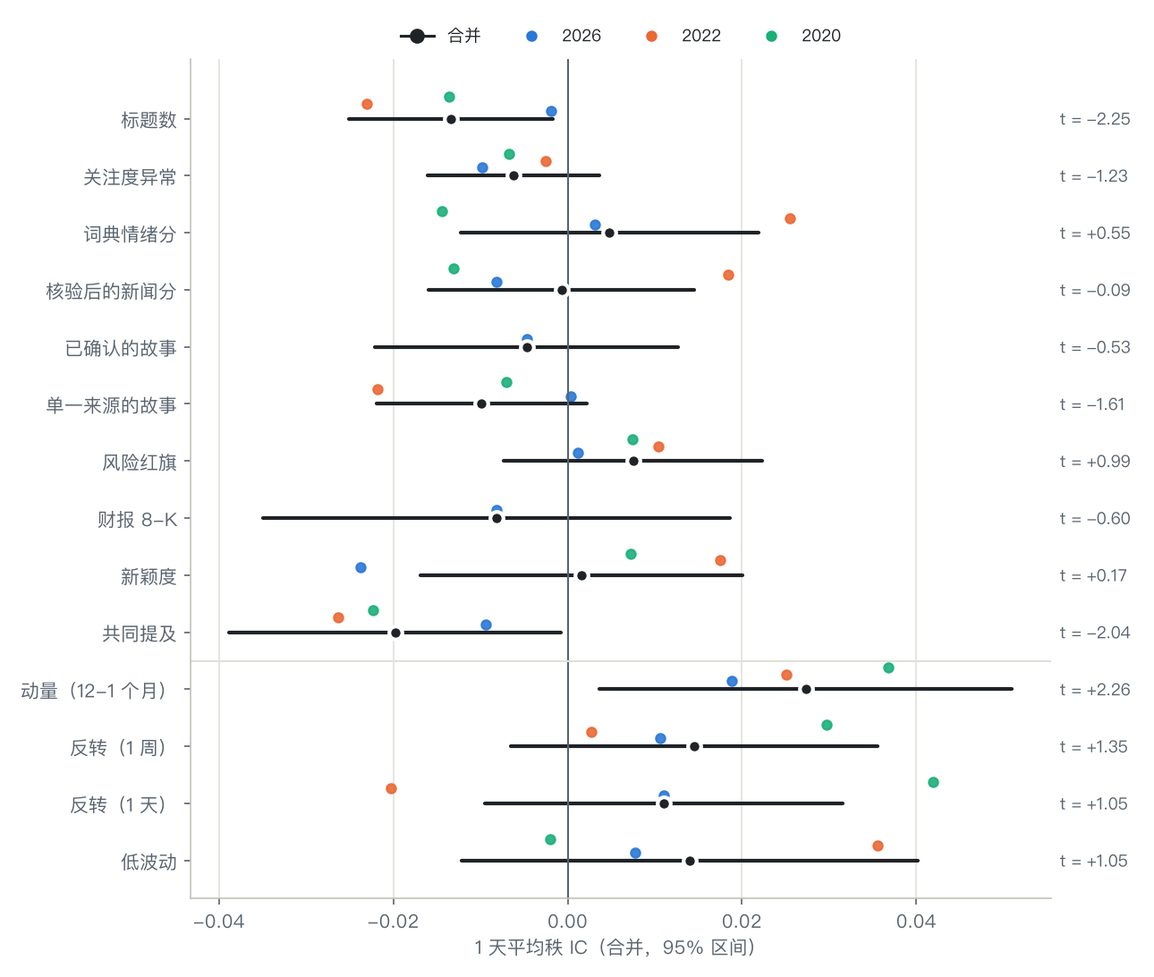
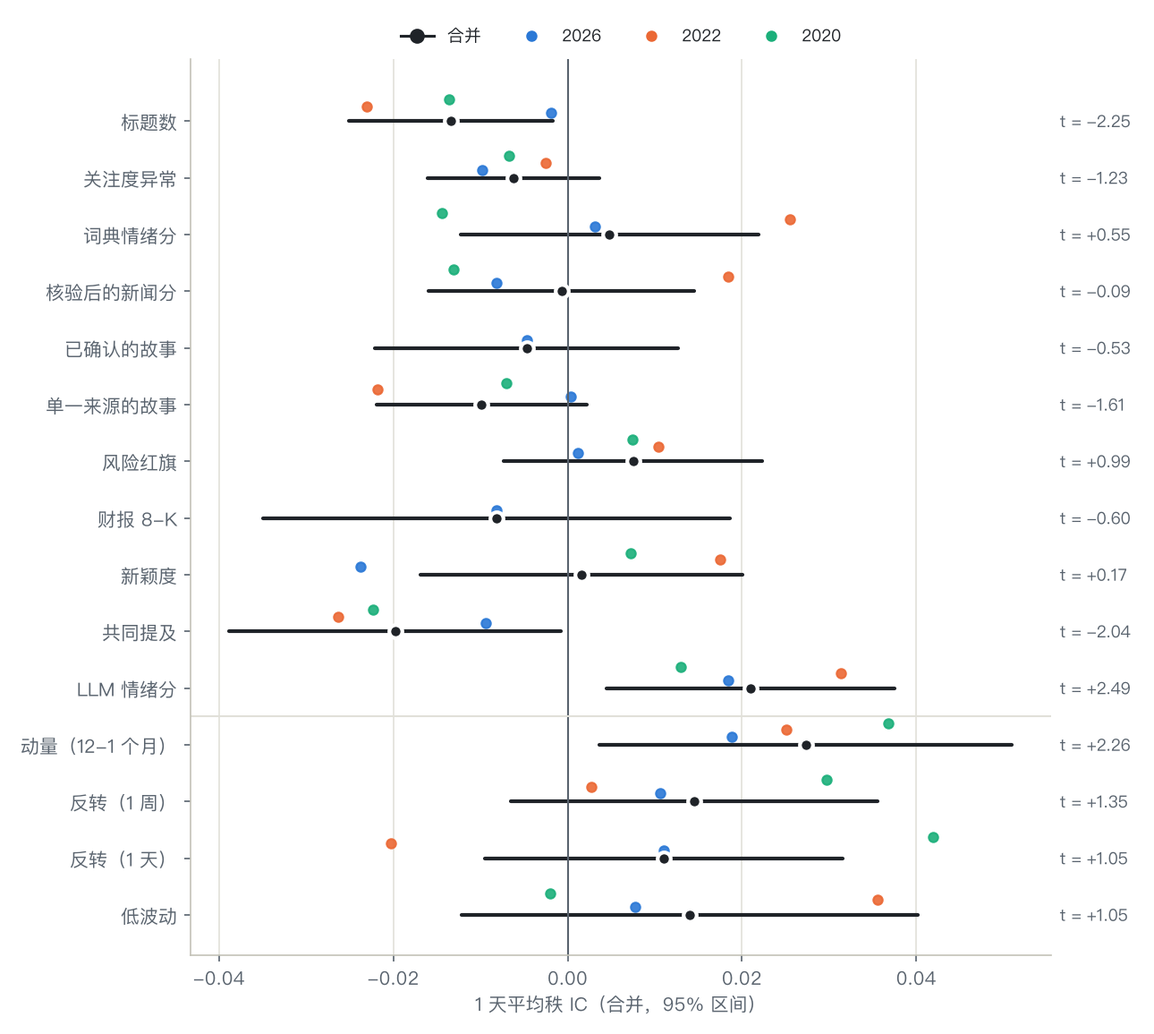
News factors: a language model's headline sentiment, tested the same way
The news-factors page tested ten factors that need no model. An eleventh now comes from a language model's reading of
each headline: gpt-5.6-luna scored all 62,722 bundled headlines of 2020, 2022 and 2026 from -1 to 1, at temperature 0
with reasoning off, through a job queue (1,569 batch requests of 40 headlines; the 9% of batches that came back with
the wrong number of scores were asked again in batches of 20).

It is the strongest news factor: a one-day rank IC of 0.021 (t = 2.5), positive in every year, four times the
lexicon's. Momentum, reversal and low volatility absorb it (Fama-MacBeth t = 1.1 at one day, 1.9 at five), so the
fixed rule calls it weak, and like the lexicon it replaces 82% of its top quintile a day, breaking even at 2.7 bp
per side. Joined by calendar date its IC doubles to 0.050 (t = 5.6). The docs and both pages carry these numbers,
and the IC, join and quintile charts now include it.

factors.json records who scored the headlines: the model, the route that served it (the API's own model id), the
prompt version, the system prompt and its SHA-256, and the coverage. A batch reply records the model it came from;
the report's lead stays lexicon sentiment, and the join chart keeps three panels about as wide as the others.

diff --git a/site/news-factors.html b/site/news-factors.html
@@ -4,7 +4,7 @@
 <meta charset="utf-8">
 <meta name="viewport" content="width=device-width, initial-scale=1">
 <title>Do news headlines predict stock returns? Ten news factors tested point in time · Risk-Aware Trading Agents</title>
-<meta name="description" content="Ten headline factors for 64 large US stocks (sentiment, attention, novelty, red flags, earnings 8-Ks and more) tested in 2020, 2022 and 2026 with news replayed at its publication time. None survives, and a calendar-date join makes headline sentiment look like a factor with t = 3.4. Free and open source.">
+<meta name="description" content="Ten headline factors for 64 large US stocks (sentiment, attention, novelty, red flags, earnings 8-Ks and more) tested in 2020, 2022 and 2026 with news replayed at its publication time. None survives, not even a language model's sentiment, and a calendar-date join makes headline sentiment look like a factor with t = 3.4. Free and open source.">
 <link rel="canonical" href="https://jackson-cmd.github.io/risk-aware-trading-agents/news-factors.html">
 <link rel="alternate" hreflang="en" href="https://jackson-cmd.github.io/risk-aware-trading-agents/news-factors.html">
 <link rel="alternate" hreflang="zh-Hans" href="https://jackson-cmd.github.io/risk-aware-trading-agents/zh/news-factors.html">
@@ -17,7 +17,7 @@
 <meta name="twitter:card" content="summary_large_image">
 <link rel="stylesheet" href="assets/guide.css">
 <script type="application/ld+json">{"@context":"https://schema.org","@type":"TechArticle","headline":"Do news headlines predict stock returns? Ten news factors tested point in time","description":"Ten headline factors for 64 large US stocks tested in 2020, 2022 and 2026 with point-in-time news, rank IC, quintiles, decay and price-factor controls, and a comparison of calendar-date and publication-time news joins.","inLanguage":"en","datePublished":"2026-11-13","dateModified":"2026-11-13","url":"https://jackson-cmd.github.io/risk-aware-trading-agents/news-factors.html","image":"https://jackson-cmd.github.io/risk-aware-trading-agents/assets/news_factors_cumulative_en.png","author":{"@type":"Organization","name":"Risk-Aware Trading Agents contributors","url":"https://github.com/jackson-cmd/risk-aware-trading-agents"},"about":["news sentiment factor","information coefficient","look-ahead bias","point-in-time data","factor investing","news backtesting"],"isPartOf":{"@type":"WebSite","name":"Risk-Aware Trading Agents","url":"https://jackson-cmd.github.io/risk-aware-trading-agents/"}}</script>
-<script type="application/ld+json">{"@context":"https://schema.org","@type":"FAQPage","mainEntity":[{"@type":"Question","name":"Does news sentiment predict stock returns?","acceptedAnswer":{"@type":"Answer","text":"Not in this test. For 64 large US stocks in 2020, 2022 and 2026, the lexicon sentiment of headlines published before the close has a one-day rank IC of 0.005 (t = 0.6) against returns from the next open, and none of ten news factors survives once momentum, reversal and low volatility are controlled for."}},{"@type":"Question","name":"How much does a calendar-date join inflate a news factor?","acceptedAnswer":{"@type":"Answer","text":"Joined by calendar date and tested close to close, the same sentiment factor has a rank IC of 0.032 (t = 3.4) and a long-short spread of 36.9 bp a day, against 0.005 and 7.4 bp when news is replayed at its publication time. Two-thirds of the gap, +0.018 of IC (t = 4.8), comes from headlines published after the close that the calendar join reads early."}},{"@type":"Question","name":"Can I run the news factor test myself?","acceptedAnswer":{"@type":"Answer","text":"Yes. Install the open-source package with pip install risk-aware-trading-agents and run riskaware research factors. The prices and headlines ship with the package, so nothing has to be downloaded, and the run writes every number, the report and the charts to a folder."}},{"@type":"Question","name":"Can a language model score the headlines?","acceptedAnswer":{"@type":"Answer","text":"Yes: riskaware research factors --llm scores each headline from -1 to 1 with a local model through Ollama for free, or with a paid API after showing the token estimate, caches every score, and adds an LLM sentiment factor to the same tests."}}]}</script>
+<script type="application/ld+json">{"@context":"https://schema.org","@type":"FAQPage","mainEntity":[{"@type":"Question","name":"Does news sentiment predict stock returns?","acceptedAnswer":{"@type":"Answer","text":"Not in this test. For 64 large US stocks in 2020, 2022 and 2026, the lexicon sentiment of headlines published before the close has a one-day rank IC of 0.005 (t = 0.6) against returns from the next open, and none of ten news factors survives once momentum, reversal and low volatility are controlled for."}},{"@type":"Question","name":"How much does a calendar-date join inflate a news factor?","acceptedAnswer":{"@type":"Answer","text":"Joined by calendar date and tested close to close, the same sentiment factor has a rank IC of 0.032 (t = 3.4) and a long-short spread of 36.9 bp a day, against 0.005 and 7.4 bp when news is replayed at its publication time. Two-thirds of the gap, +0.018 of IC (t = 4.8), comes from headlines published after the close that the calendar join reads early."}},{"@type":"Question","name":"Can I run the news factor test myself?","acceptedAnswer":{"@type":"Answer","text":"Yes. Install the open-source package with pip install risk-aware-trading-agents and run riskaware research factors. The prices and headlines ship with the package, so nothing has to be downloaded, and the run writes every number, the report and the charts to a folder."}},{"@type":"Question","name":"Can a language model score the headlines?","acceptedAnswer":{"@type":"Answer","text":"Yes: riskaware research factors --llm scores each headline from -1 to 1 with a local or paid model, or through any batch API, caches every score, and adds an LLM sentiment factor to the same tests. Scored by gpt-5.6-luna it is the strongest news factor here, a one-day rank IC of 0.021 (t = 2.5) that is positive in all three years, but momentum, reversal and low volatility absorb it."}}]}</script>
 </head>
 <body>
 <header><div class="wrap">
@@ -32,7 +32,7 @@
 <main class="wrap">
 <p class="crumbs"><a href="./">Home</a> › Guides</p>
 <h1>Do news headlines predict stock returns? Ten news factors, tested point in time</h1>
-<p class="lead">We turned the headlines that ship with Risk-Aware Trading Agents into ten daily news factors for 64 large US stocks, using only what was published before each close, and tested them against returns from the next open in 2020, 2022 and 2026. None of them survives. Joined to prices by calendar date instead, the way many news backtests do it, headline sentiment looks like a real factor.</p>
+<p class="lead">We turned the headlines that ship with Risk-Aware Trading Agents into ten daily news factors for 64 large US stocks, using only what was published before each close, and tested them against returns from the next open in 2020, 2022 and 2026. None of them survives, not even sentiment scored by a language model. Joined to prices by calendar date instead, the way many news backtests do it, headline sentiment looks like a real factor.</p>
 <div class="cta">
   <a class="btn primary" href="https://github.com/jackson-cmd/risk-aware-trading-agents">Get it on GitHub</a>
   <a class="btn" href="news-backtesting.html">Backtesting with news</a>
@@ -41,6 +41,7 @@
 
 <div class="box">
   <p><b>No news factor survives.</b> Eight of ten are noise. Two (the number of headlines, and how many other companies they name) have a small negative one-day IC that momentum, reversal and low volatility absorb.</p>
+  <p><b>A language model reads headlines better, not well enough.</b> Sentiment scored by gpt-5.6-luna has a one-day IC of 0.021 (t = 2.5), positive in all three years, but the price factors absorb it and it changes too fast to trade.</p>
   <p><b>A calendar-date join makes one up.</b> Lexicon sentiment joined by calendar date and tested close to close: rank IC 0.032 (t = 3.4), long-short 36.9 bp a day. Joined by publication time and traded from the next open: 0.005 (t = 0.6) and 7.4 bp.</p>
   <p><b>Most of the gap is read early.</b> Two-thirds of it, +0.018 of IC (t = 4.8), is news published after the close, and it shows up in each of the three years.</p>
 </div>
@@ -56,15 +57,16 @@
 </table></div>
 <p>Only the shortcut reads the future. Holding the return window fixed (close to close), the calendar join adds <b>+0.018 to the IC (t = 4.8)</b>, two-thirds of the gap to the honest replay. The calendar join with next-open returns does not leak, because the evening's news is out before the next open, and it is no better than the honest replay: the shortcut's edge is the overnight move after news that came out after the close.</p>
 <img class="chart" src="assets/news_factors_cumulative_en.png" alt="Cumulative daily rank IC of headline sentiment in 2026, 2022 and 2020: the calendar-date join climbs while the publication-time join stays near zero in 2026 and falls in 2020" loading="lazy">
-<p>The gap is not one lucky year. The leak is +0.0157 (t = 1.8) in 2026, +0.0209 (t = 3.7) in 2022 and +0.0165 (t = 3.1) in 2020, and the package's verified news score shows the same pattern: 0.017 (t = 2.2) joined by date, -0.001 (t = -0.1) joined by time.</p>
-<img class="chart" src="assets/news_factors_alignment_en.png" alt="Mean one-day rank IC of lexicon sentiment and the verified news score under both joins, pooled and by year" loading="lazy">
+<p>The gap is not one lucky year. The leak is +0.0157 (t = 1.8) in 2026, +0.0209 (t = 3.7) in 2022 and +0.0165 (t = 3.1) in 2020, and the package's verified news score shows the same pattern: 0.017 (t = 2.2) joined by date, -0.001 (t = -0.1) joined by time. So does the language model's sentiment, more strongly: 0.050 (t = 5.6) joined by date, 0.021 (t = 2.45) joined by time.</p>
+<img class="chart" src="assets/news_factors_alignment_en.png" alt="Mean one-day rank IC of lexicon sentiment, the verified news score and LLM sentiment under both joins, pooled and by year" loading="lazy">
 <p>How much moves: a calendar-date join puts 13% of the 2026 headlines and 62.5% of the 2026 SEC 8-K filings (companies report after the close) on an earlier trading day than their publication time allows, and 10% to 11% of the headlines in 2020 and 2022.</p>
 
 <h2>Ten news factors in three markets</h2>
 <p>Each factor is ranked across the 64 stocks every day and compared with the return from the next open to the open 1, 5 and 20 trading days later, on total-return prices. The t-statistics are Newey-West, and the price controls are 12-1 momentum, 1-week and 1-day reversal and 60-day low volatility.</p>
-<img class="chart" src="assets/news_factors_ic_en.png" alt="Mean one-day rank IC of ten news factors and four price factors, pooled with 95% intervals and by year" loading="lazy">
+<img class="chart" src="assets/news_factors_ic_en.png" alt="Mean one-day rank IC of eleven news factors and four price factors, pooled with 95% intervals and by year" loading="lazy">
 <div class="table-wrap"><table>
   <tr><th>Factor</th><th>Verdict</th><th class="num">IC, 1 day (t)</th><th class="num">IC, 5 days (t)</th><th class="num">After price controls (t)</th></tr>
+  <tr><td>LLM sentiment (gpt-5.6-luna)</td><td>weak</td><td class="num">+0.021 (+2.49)</td><td class="num">+0.023 (+2.06)</td><td class="num">+1.09</td></tr>
   <tr><td>Headline count</td><td>weak</td><td class="num">-0.013 (-2.25)</td><td class="num">-0.010 (-1.00)</td><td class="num">-1.01</td></tr>
   <tr><td>Co-mentions</td><td>weak</td><td class="num">-0.020 (-2.04)</td><td class="num">-0.018 (-1.40)</td><td class="num">-1.28</td></tr>
   <tr><td>Attention anomaly</td><td>noise</td><td class="num">-0.006 (-1.23)</td><td class="num">+0.004 (+0.58)</td><td class="num">-0.31</td></tr>
@@ -79,18 +81,19 @@
 </table></div>
 <p class="note">Useful = pooled |t| at least 2 at one or five days, the same sign in every year, and still |t| at least 2 after the price controls (the Fama-MacBeth slope's t is shown). Confirmed stories and earnings 8-Ks exist in 2026 only: the 2020 and 2022 headlines come from one feed without SEC filings, so no story can be confirmed there.</p>
 <ul>
-  <li><b>Tone does not carry over to the next open.</b> Headline sentiment comes closest in the 2022 bear market (0.026, t = 1.9) and turns negative in 2020.</li>
+  <li><b>A language model's sentiment is the strongest news factor, and still weak.</b> Its IC is positive in every year (0.031, t = 2.4 in 2022), and after the price controls its five-day residual IC is 0.027 (t = 3.4); but its Fama-MacBeth slope with the controls has a t of 1.1 at one day and 1.9 at five. A lead worth more data, not a factor to trade.</li>
+  <li><b>Lexicon tone does not carry over to the next open.</b> Lexicon sentiment comes closest in the 2022 bear market (0.026, t = 1.9) and turns negative in 2020.</li>
   <li><b>More news, slightly lower next-day returns, explained by price.</b> Stocks with many headlines are the day's big movers; with reversal and the other price factors in the regression the effect is no longer significant.</li>
   <li><b>Market regimes add nothing reliable.</b> Three of about 36 regime readings have |t| just above 2, close to what chance gives.</li>
 </ul>
 
 <h2>Quintiles, decay and turnover</h2>
 <img class="chart" src="assets/news_factors_groups_en.png" alt="Next-day return of each quintile of six factors, against the day's mean" loading="lazy">
-<p>The top quintile of headline sentiment did a little better than the bottom one, 7.3 bp a day (t = 1.0), not enough to tell from chance. The factor replaces 85% of its top quintile every day, so that spread breaks even at 2.2 bp of cost per side, less than the package's default 5 bp slippage. Momentum, for comparison, keeps 94% of its top quintile from one day to the next.</p>
+<p>The top quintile of headline sentiment did a little better than the bottom one, 7.3 bp a day (t = 1.0), not enough to tell from chance. The factor replaces 85% of its top quintile every day, so that spread breaks even at 2.2 bp of cost per side, less than the package's default 5 bp slippage. Sentiment scored by the language model does a little better, 8.9 bp a day (t = 1.5), and changes just as fast (82% of its top quintile is new each day), so it breaks even at 2.7 bp. Momentum, for comparison, keeps 94% of its top quintile from one day to the next.</p>
 <img class="chart" src="assets/news_factors_decay_en.png" alt="Rank IC of the one-day return k days after the decision, for headline sentiment, the verified news score, headline count and momentum" loading="lazy">
 <p>The decay curves of the news factors wander around zero from the first day on; momentum's stays flat and positive for a month.</p>
 
-<h2>The ten factors</h2>
+<h2>The factors</h2>
 <ul>
   <li><b>Headline count</b> since the previous close, and the <b>attention anomaly</b>: that count against the stock's own mean of the 20 trading days before.</li>
   <li><b>Lexicon sentiment</b>: the mean score of the day's headlines from the package's finance lexicon, opinion pieces left out.</li>
@@ -98,6 +101,7 @@
   <li><b>Earnings 8-K</b>: an SEC filing with Item 2.02 since the previous close (2026).</li>
   <li><b>Novelty</b>: how little the day's headlines repeat the five days before.</li>
   <li><b>Co-mentions</b>: how many other covered companies the day's headlines name.</li>
+  <li><b>LLM sentiment</b> (optional): the mean score from -1 to 1 that a language model gave the day's headlines; here gpt-5.6-luna at temperature 0, 62,722 headlines scored once and cached.</li>
 </ul>
 <p>Every value for a day uses only items published before that day's close (16:00 New York, 13:00 on early-close days). A test rewrites every headline published at or after a close, adds new ones, and checks that no feature up to that close changes.</p>
 
@@ -119,7 +123,7 @@ riskaware research factors --llm             # add a sentiment factor scored by 
 <h3>Can I run the news factor test myself?</h3>
 <p>Yes. The prices and headlines ship with the package, so <code>riskaware research factors</code> needs no download and no API key.</p>
 <h3>Can a language model score the headlines?</h3>
-<p>Yes. <code>--llm</code> scores each headline with a local model through Ollama for free, or with a paid API after showing the token estimate, and adds an LLM sentiment factor to the same tests; <code>--llm-export</code> and <code>--llm-import</code> run the scoring through any batch API instead. A model trained after 2020 or 2022 may know what happened next, so its scores for those years are not blind; llama3.2's training data ends in 2023.</p>
+<p>Yes. <code>--llm</code> scores each headline with a local model through Ollama for free, or with a paid API after showing the token estimate, and adds an LLM sentiment factor to the same tests; <code>--llm-export</code> and <code>--llm-import</code> run the scoring through any batch API instead. Scored by gpt-5.6-luna, it is the strongest news factor on this page (one-day IC 0.021, t = 2.5, positive in all three years), and the price factors still absorb it. A model trained after 2020 or 2022 may know what happened next, so its scores for those years are not blind; luna's IC is lowest in 2020, which is some comfort but no proof.</p>
 
 <h2>More guides</h2>
 <div class="more">

diff --git a/src/riskaware/research/news_factors.py b/src/riskaware/research/news_factors.py
@@ -989,6 +989,7 @@ class HeadlineScorer:
 
     def _load(self) -> dict[str, float]:
         out: dict[str, float] = {}
+        self.served_by: dict[str, int] = {}  # the model ids that answered, as the API reported them
         if self.path.is_file():
             with self.path.open(encoding="utf-8") as fh:
                 for line in fh:
@@ -998,6 +999,24 @@ class HeadlineScorer:
                         continue
                     if rec.get("v") == PROMPT_VERSION and isinstance(rec.get("score"), (int, float)):
                         out[rec["key"]] = float(rec["score"])
+                        who = str(rec.get("served_by") or rec.get("model") or "")
+                        self.served_by[who] = self.served_by.get(who, 0) + 1
+        return out
+
+    def manifest(self, pairs: Iterable[tuple[str, str]] | None = None) -> dict[str, Any]:
+        """What a study that uses these scores should record: the model, who served it, the prompt and its hash."""
+        out: dict[str, Any] = {
+            "model": self.choice, "served_by": dict(sorted(self.served_by.items())), "prompt_version": PROMPT_VERSION,
+            "system_prompt": LLM_SYSTEM,
+            "user_prompt": "<n> headlines; return exactly <n> numbers.\n1. [<stock>] <headline>\n...",
+            "prompt_sha256": hashlib.sha256(LLM_SYSTEM.encode()).hexdigest(), "temperature": 0.0,
+            "reply": "a JSON object {\"scores\": [...]}, one number per headline; scores clipped to [-1, 1]",
+            "cache": str(self.path),
+        }
+        if pairs is not None:
+            pairs = list(pairs)
+            have = sum(1 for s, h in pairs if headline_key(s, h) in self.scores)
+            out.update({"headlines": len(pairs), "scored": have, "coverage": have / len(pairs) if pairs else 0.0})
         return out
 
     def provider(self) -> Any:
@@ -1044,8 +1063,9 @@ class HeadlineScorer:
                         continue
                     k = headline_key(sym, head)
                     self.scores[k] = s
+                    self.served_by[self.model] = self.served_by.get(self.model, 0) + 1
                     fh.write(json.dumps({"key": k, "symbol": sym, "headline": head, "score": s, "v": PROMPT_VERSION,
-                                         "model": self.choice}, ensure_ascii=False) + "\n")
+                                         "model": self.choice, "served_by": self.model}, ensure_ascii=False) + "\n")
                 fh.flush()
                 done += len(chunk)
                 if progress:
@@ -1102,8 +1122,14 @@ class HeadlineScorer:
                         continue
                     self.scores[k] = score
                     sym, head = lookup.get(k, (None, None))
+                    asked, answered = row.get("model"), row.get("model_returned")
+                    who = str(answered or asked or self.model)
+                    if asked and answered and str(asked) != str(answered):
+                        who = f"{answered} via {asked}"  # the route, e.g. a gateway's id for the same model
+                    self.served_by[who] = self.served_by.get(who, 0) + 1
                     fh.write(json.dumps({"key": k, "symbol": sym, "headline": head, "score": score,
-                                         "v": PROMPT_VERSION, "model": self.choice}, ensure_ascii=False) + "\n")
+                                         "v": PROMPT_VERSION, "model": self.choice, "served_by": who},
+                                        ensure_ascii=False) + "\n")
                     counts["scored"] += 1
         return counts
 
@@ -1199,7 +1225,8 @@ def _bp(v: Any, t: Any = None) -> str:
 
 
 def headline_numbers(study: FactorStudy) -> dict[str, Any]:
-    """The few numbers a summary quotes: the verdict counts and the sentiment join comparison."""
+    """The few numbers a summary quotes: the verdict counts and the join comparison of lexicon sentiment (or, when
+    it is missing, of the tone factor the calendar join inflates most)."""
     counts = {k: sorted(n for n, v in study.verdicts.items() if v["verdict"] == k) for k in VERDICT_ORDER}
     best = None
     for name, al in study.pooled_alignment.items():
@@ -1207,6 +1234,8 @@ def headline_numbers(study: FactorStudy) -> dict[str, Any]:
         if ALL_FACTORS[name].expected > 0 and h.get("leak", {}).get("t") is not None:
             if best is None or h["leak"]["t"] > study.pooled_alignment[best]["h1"]["leak"]["t"]:
                 best = name
+    if "sentiment" in study.pooled_alignment and (study.pooled_alignment["sentiment"].get("h1") or {}).get("leak"):
+        best = "sentiment"
     out: dict[str, Any] = {"verdicts": counts}
     if best:
         h = study.pooled_alignment[best]["h1"]
@@ -1345,8 +1374,11 @@ def markdown_report(study: FactorStudy, lang: str = "en") -> str:
                      f"{c['items']} items; prices sha256 {str(ds.get('prices', ''))[:12]}…, news sha256 "
                      f"{str(ds.get('news', ''))[:12]}…")
     if study.llm:
-        lines.append(f"- LLM: {study.llm.get('model')}, {study.llm.get('scored')} headlines scored "
-                     f"({study.llm.get('coverage', 0):.0%} of those in the periods).")
+        served = ", ".join(f"{k} ({v:,})" for k, v in (study.llm.get("served_by") or {}).items()) or "?"
+        lines.append(f"- LLM: {study.llm.get('model')} (served by {served}), {study.llm.get('scored')} headlines "
+                     f"scored ({study.llm.get('coverage', 0):.0%} of those in the periods), prompt version "
+                     f"{study.llm.get('prompt_version')}, system prompt sha256 "
+                     f"{str(study.llm.get('prompt_sha256', ''))[:12]}…, temperature {study.llm.get('temperature')}.")
     return "\n".join(lines) + "\n"
 
 
@@ -1451,7 +1483,8 @@ def _chart_alignment(study: FactorStudy, path: Path, lang: str) -> None:
     """Mean 1-day IC of the tone factors under the honest join and the shortcut, pooled and by period."""
     T, plt = TEXT[lang], _plt(lang)
     names = _tone_factors(study)
-    fig, axes = plt.subplots(1, len(names), figsize=(4.3 * len(names) + 0.6, 3.9), squeeze=False, sharey=True)
+    width = 4.3 if len(names) <= 2 else 3.4  # three panels stay about as wide as the cumulative chart
+    fig, axes = plt.subplots(1, len(names), figsize=(width * len(names) + 0.6, 3.9), squeeze=False, sharey=True)
     for ax, n in zip(axes[0], names, strict=True):
         cols = [("pooled", study.pooled_alignment[n]["h1"])]
         cols += [(p, (study.alignment.get(p, {}).get(n) or {}).get("h1")) for p in study.periods]

diff --git a/tests/test_news_factors.py b/tests/test_news_factors.py
@@ -316,7 +316,8 @@ def test_batch_requests_and_their_results_fill_the_cache(tmp_path):
     assert [len(r["meta"]["keys"]) for r in reqs] == [4, 2] and len({r["key"] for r in reqs}) == 2
     assert "JSON" in reqs[0]["system"] and reqs[0]["prompt"].startswith("4 headlines; return exactly 4 numbers.")
     assert reqs[1]["meta"]["v"] == nf.PROMPT_VERSION and reqs[1]["max_tokens"] >= 2 * 16
-    rows = [{"key": reqs[0]["key"], "text": json.dumps({"scores": [0.5, -0.2, 2, "x"]}), "meta": reqs[0]["meta"]},
+    rows = [{"key": reqs[0]["key"], "text": json.dumps({"scores": [0.5, -0.2, 2, "x"]}), "meta": reqs[0]["meta"],
+             "model_returned": "gpt-5.6-luna"},
             {"key": reqs[1]["key"], "text": '```json\n{"scores": [1]}\n```', "meta": reqs[1]["meta"]},
             {"key": "old", "text": '{"scores": [1]}', "meta": {"keys": ["k"], "v": nf.PROMPT_VERSION - 1}}]
     assert sc.import_results(rows, pairs) == {"rows": 3, "scored": 3, "skipped": 2}
@@ -326,6 +327,9 @@ def test_batch_requests_and_their_results_fill_the_cache(tmp_path):
     assert again.scores == sc.scores and [len(r["meta"]["keys"]) for r in again.requests(pairs, batch=4)] == [3]
     cached = [json.loads(line) for line in again.path.read_text(encoding="utf-8").splitlines()]
     assert {r["symbol"] for r in cached} == {"AAPL"} and all(r["v"] == nf.PROMPT_VERSION for r in cached)
+    m = again.manifest(pairs)
+    assert m["served_by"] == {"gpt-5.6-luna": 3} and m["scored"] == 3 and m["coverage"] == pytest.approx(0.5)
+    assert m["model"] == "openai:gpt-5.6-luna" and m["system_prompt"] == nf.LLM_SYSTEM and len(m["prompt_sha256"]) == 64
 
 
 def test_the_cli_exports_requests_and_imports_results(monkeypatch, tmp_path):

diff --git a/src/riskaware/research/cli.py b/src/riskaware/research/cli.py
@@ -488,10 +488,8 @@ def factors_cmd(
                         "The scores so far are cached; run the command again to go on.",
                         "已打的分已缓存；再运行一次这个命令就接着打。"))
         scores = scorer.scores
-        have = sum(1 for s, h in pairs if nf.headline_key(s, h) in scores)
-        llm_info = {"model": llm_model, "scored": have, "headlines": len(pairs),
-                    "coverage": have / len(pairs) if pairs else 0.0, "prompt_version": nf.PROMPT_VERSION,
-                    "cache": str(scorer.path)}
+        llm_info = scorer.manifest(pairs)
+        have = llm_info["scored"]
         if not have:
             console.print(L("[yellow]No headline has an LLM score yet; the LLM factor is left out.[/]",
                             "[yellow]还没有标题有 LLM 分数，这次不算 LLM 因子。[/]"))

diff --git a/docs/news-factors.md b/docs/news-factors.md
@@ -2,11 +2,12 @@
 
 [中文](zh/news-factors.md)
 
-`riskaware research factors` turns the headlines that ship with the package into ten daily news factors for 64 large US stocks, using only what was published before each day's close, and tests them against returns from the next open in three very different markets: 2020 (the COVID crash), 2022 (the rate-hike bear market) and 2026 (a rising market). It then computes the same factors the way many news backtests do, joined to prices by calendar date, and measures how much that shortcut inflates them.
+`riskaware research factors` turns the headlines that ship with the package into ten daily news factors for 64 large US stocks, plus an eleventh from a language model's reading of each headline, using only what was published before each day's close, and tests them against returns from the next open in three very different markets: 2020 (the COVID crash), 2022 (the rate-hike bear market) and 2026 (a rising market). It then computes the same factors the way many news backtests do, joined to prices by calendar date, and measures how much that shortcut inflates them.
 
 **What we found**
 
 - **No news factor survives.** Eight of the ten are noise (pooled |t| below 2 at one and five days). Two, the number of headlines and how many other companies they name, have a small negative one-day IC (-0.013, t = -2.25 and -0.020, t = -2.04) that momentum, reversal and low volatility absorb.
+- **A language model reads headlines better, not well enough.** Sentiment scored by gpt-5.6-luna is the strongest news factor: a one-day IC of 0.021 (t = 2.5), positive in all three years, four times the lexicon's. The price factors absorb it too (slope t = 1.1), and it changes as fast as the lexicon: 82% of its top quintile is new every day, so its 8.9 bp daily spread breaks even at 2.7 bp of cost per side.
 - **A calendar-date join makes one up.** Joined by calendar date and tested close to close, lexicon sentiment has a rank IC of 0.032 (t = 3.4) and a long-short spread of 36.9 bp a day. Joined by publication time and traded from the next open, it has 0.005 (t = 0.6) and 7.4 bp (t = 1.0). Two-thirds of the gap (+0.018 of IC, t = 4.8) is news published after the close that the calendar join reads early, and it shows up in each of the three periods.
 - **Price factors as a yardstick.** 12-1 momentum, the strongest of the four price factors here, has a pooled one-day IC of 0.027 (t = 2.3).
 
@@ -87,6 +88,7 @@ The 2020 and 2022 headlines come from one feed and have no SEC filings, so no st
 
 | Factor | Verdict | 1 day | 5 days | 20 days | Slope after price controls, 1 day |
 |---|---|---:|---:|---:|---:|
+| LLM sentiment (gpt-5.6-luna) | weak | +0.0210 (+2.49) | +0.0226 (+2.06) | +0.0178 (+1.48) | +1.79 bp (+1.09) |
 | Headline count | weak | -0.0134 (-2.25) | -0.0104 (-1.00) | -0.0090 (-0.51) | -0.97 bp (-1.01) |
 | Co-mentions | weak | -0.0198 (-2.04) | -0.0183 (-1.40) | -0.0335 (-1.61) | -2.13 bp (-1.28) |
 | Attention anomaly | noise | -0.0062 (-1.23) | +0.0036 (+0.58) | +0.0142 (+1.99) | -0.26 bp (-0.31) |
@@ -106,6 +108,7 @@ By period, one day:
 | Lexicon sentiment | +0.0031 (+0.19) | +0.0255 (+1.86) | -0.0144 (-0.97) |
 | Verified news score | -0.0082 (-0.64) | +0.0184 (+1.59) | -0.0131 (-1.01) |
 | Novelty | -0.0238 (-1.33) | +0.0175 (+1.13) | +0.0072 (+0.52) |
+| LLM sentiment | +0.0184 (+1.13) | +0.0313 (+2.38) | +0.0130 (+0.89) |
 | Co-mentions | -0.0094 (-0.57) | -0.0263 (-1.44) | -0.0223 (-1.45) |
 | Momentum 12-1 | +0.0188 (+1.07) | +0.0251 (+1.30) | +0.0368 (+1.51) |
 | Reversal, 1 week | +0.0106 (+0.60) | +0.0027 (+0.14) | +0.0297 (+1.57) |
@@ -117,7 +120,8 @@ What the tables say:
 - **More news, slightly lower next-day returns, explained by price.** Stocks with many headlines, or with headlines that also name other companies, did a little worse the next day. Stocks with many headlines are the day's big movers (the daily rank correlation of headline count with the size of that day's move is about 0.15 in each period); with 1-day and 1-week reversal and the other price factors in the regression, both slopes lose significance (t = -1.0 and -1.3).
 - **Too fast to trade.** Lexicon sentiment replaces 85% of its top group every day (the verified score, which looks back 72 hours, 51%). Its 7.3 bp daily spread breaks even at 2.2 bp per side, below the package's default 5 bp slippage.
 - **Regimes add nothing reliable.** Of about 36 regime readings of the news factors, three have |t| just above 2 (co-mentions on uncertain days, and lexicon sentiment and the verified score on the 24 neutral days), close to what chance gives.
-- **One lead, not a finding.** After the price controls, lexicon sentiment has a five-day residual IC of 0.018 (t = 2.2), but its Fama-MacBeth slope (t = 1.1) and its raw IC (t = 0.8) do not confirm it. Ten factors, three horizons and several tests make one |t| above 2 likely by chance.
+- **The model's sentiment is steadier than the lexicon's, and still weak.** Its IC is positive in every year (largest in the 2022 bear market: 0.031, t = 2.4), its top quintile beats its bottom one by 8.9 bp a day (t = 1.5), and after the price controls its five-day residual IC is 0.027 (t = 3.4). Its Fama-MacBeth slope with the controls stops short of the rule's bar (t = 1.1 at one day, 1.9 at five), so it counts as weak: a lead worth more data, not a factor to trade.
+- **One more lead, not a finding.** After the price controls, lexicon sentiment has a five-day residual IC of 0.018 (t = 2.2), but its Fama-MacBeth slope (t = 1.1) and its raw IC (t = 0.8) do not confirm it. Eleven factors, three horizons and several tests make an occasional |t| above 2 likely by chance.
 
 ## Calendar date against publication time
 
@@ -130,7 +134,7 @@ The same factor, computed two ways, tested against two return windows:
 | Calendar date, close to close (the shortcut) | **0.032 (3.4)** | 36.9 bp (t = 4.8) |
 | Calendar date, from the next open | 0.004 (0.4) | 5.6 bp |
 
-The calendar join puts a headline published at 16:05 on the row of that day's 16:00 close, and a close-to-close return then starts before the headline existed. That is the only cell that reads the future. Holding the return window fixed (close to close), the calendar join adds **+0.018 to the IC (t = 4.8)**: two-thirds of the +0.027 gap to the honest replay. The leak appears in every period (+0.0157, t = 1.8 in 2026; +0.0209, t = 3.7 in 2022; +0.0165, t = 3.1 in 2020), and the verified news score shows the same pattern (0.017, t = 2.2 joined by date against -0.001, t = -0.1).
+The calendar join puts a headline published at 16:05 on the row of that day's 16:00 close, and a close-to-close return then starts before the headline existed. That is the only cell that reads the future. Holding the return window fixed (close to close), the calendar join adds **+0.018 to the IC (t = 4.8)**: two-thirds of the +0.027 gap to the honest replay. The leak appears in every period (+0.0157, t = 1.8 in 2026; +0.0209, t = 3.7 in 2022; +0.0165, t = 3.1 in 2020), and the verified news score shows the same pattern (0.017, t = 2.2 joined by date against -0.001, t = -0.1). So does the language model's sentiment, more strongly: 0.050 (t = 5.6) joined by date and tested close to close, against 0.021 (t = 2.45) joined by publication time; the join alone adds +0.024 (t = 5.7).
 
 The calendar join with next-open returns does not leak (the evening's news is out before the next open) and it is no better than the honest replay, which is the point: the shortcut's IC is the overnight move that follows after-close news, collected by a trade that starts before it.
 
@@ -146,7 +150,7 @@ A calendar-date join moves 13% of the 2026 Benzinga headlines and 62.5% of the 2
 - The prompt asks the model to judge the headline alone and to ignore what happened afterwards, but a model trained after 2020 or 2022 may still know. llama3.2's training data ends in 2023, so its 2026 scores cannot know the outcome; compare periods with that in mind.
 - With Ollama, the scorer uses Ollama's own chat endpoint and can ask for a context size (`HeadlineScorer(..., num_ctx=16384)`), so it shares a model another program has loaded with that size instead of making both reload it.
 
-The results above are the ten factors that need no model.
+**The run on this page.** gpt-5.6-luna at temperature 0, with JSON replies and reasoning off, through a job queue: 1,569 requests of 40 headlines, then the 145 batches (9%) that came back with 41 scores for 40 headlines again in batches of 20, which all came back right. 62,722 headlines in all, about 2.2 million input and 0.26 million output tokens. `factors.json` records the model, the route it was served through, the prompt and its SHA-256. luna was trained after 2020 and 2022, and perhaps during part of 2026, so it may know how some stories ended; its IC is not higher in the older years (2020 is its lowest, 0.013), which is some comfort but no proof.
 
 ## Limits
 
